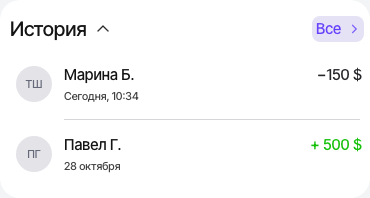
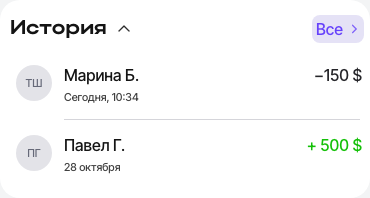
Apply revised H2 and body typography to dollar home

diff --git a/src/styles.css b/src/styles.css
@@ -1490,3 +1490,12 @@ body:has(.guest-direction-sheet[open]) { overflow:hidden; }
 .home-screen[data-active-card=debit] .operation-name,
 .home-screen[data-active-card=debit] .operation-amount { line-height:20px; }
 .home-screen[data-active-card=debit] .operation { padding-block:15px; }
+
+/* Revised dollar-home type — Figma 161:4576. */
+.home-screen[data-active-card=second] h2 { font:700 20px/24px 'Actay Wide',sans-serif; letter-spacing:0; }
+.home-screen[data-active-card=second] .operation-name,
+.home-screen[data-active-card=second] .operation-amount,
+.home-screen[data-active-card=second] .all-history,
+.home-screen[data-active-card=second] .analytics-tile span { line-height:20px; }
+.home-screen[data-active-card=second] .operation { padding-block:15px; }
+.home-screen[data-active-card=second] .quick-actions button { line-height:20px; gap:14px; }
